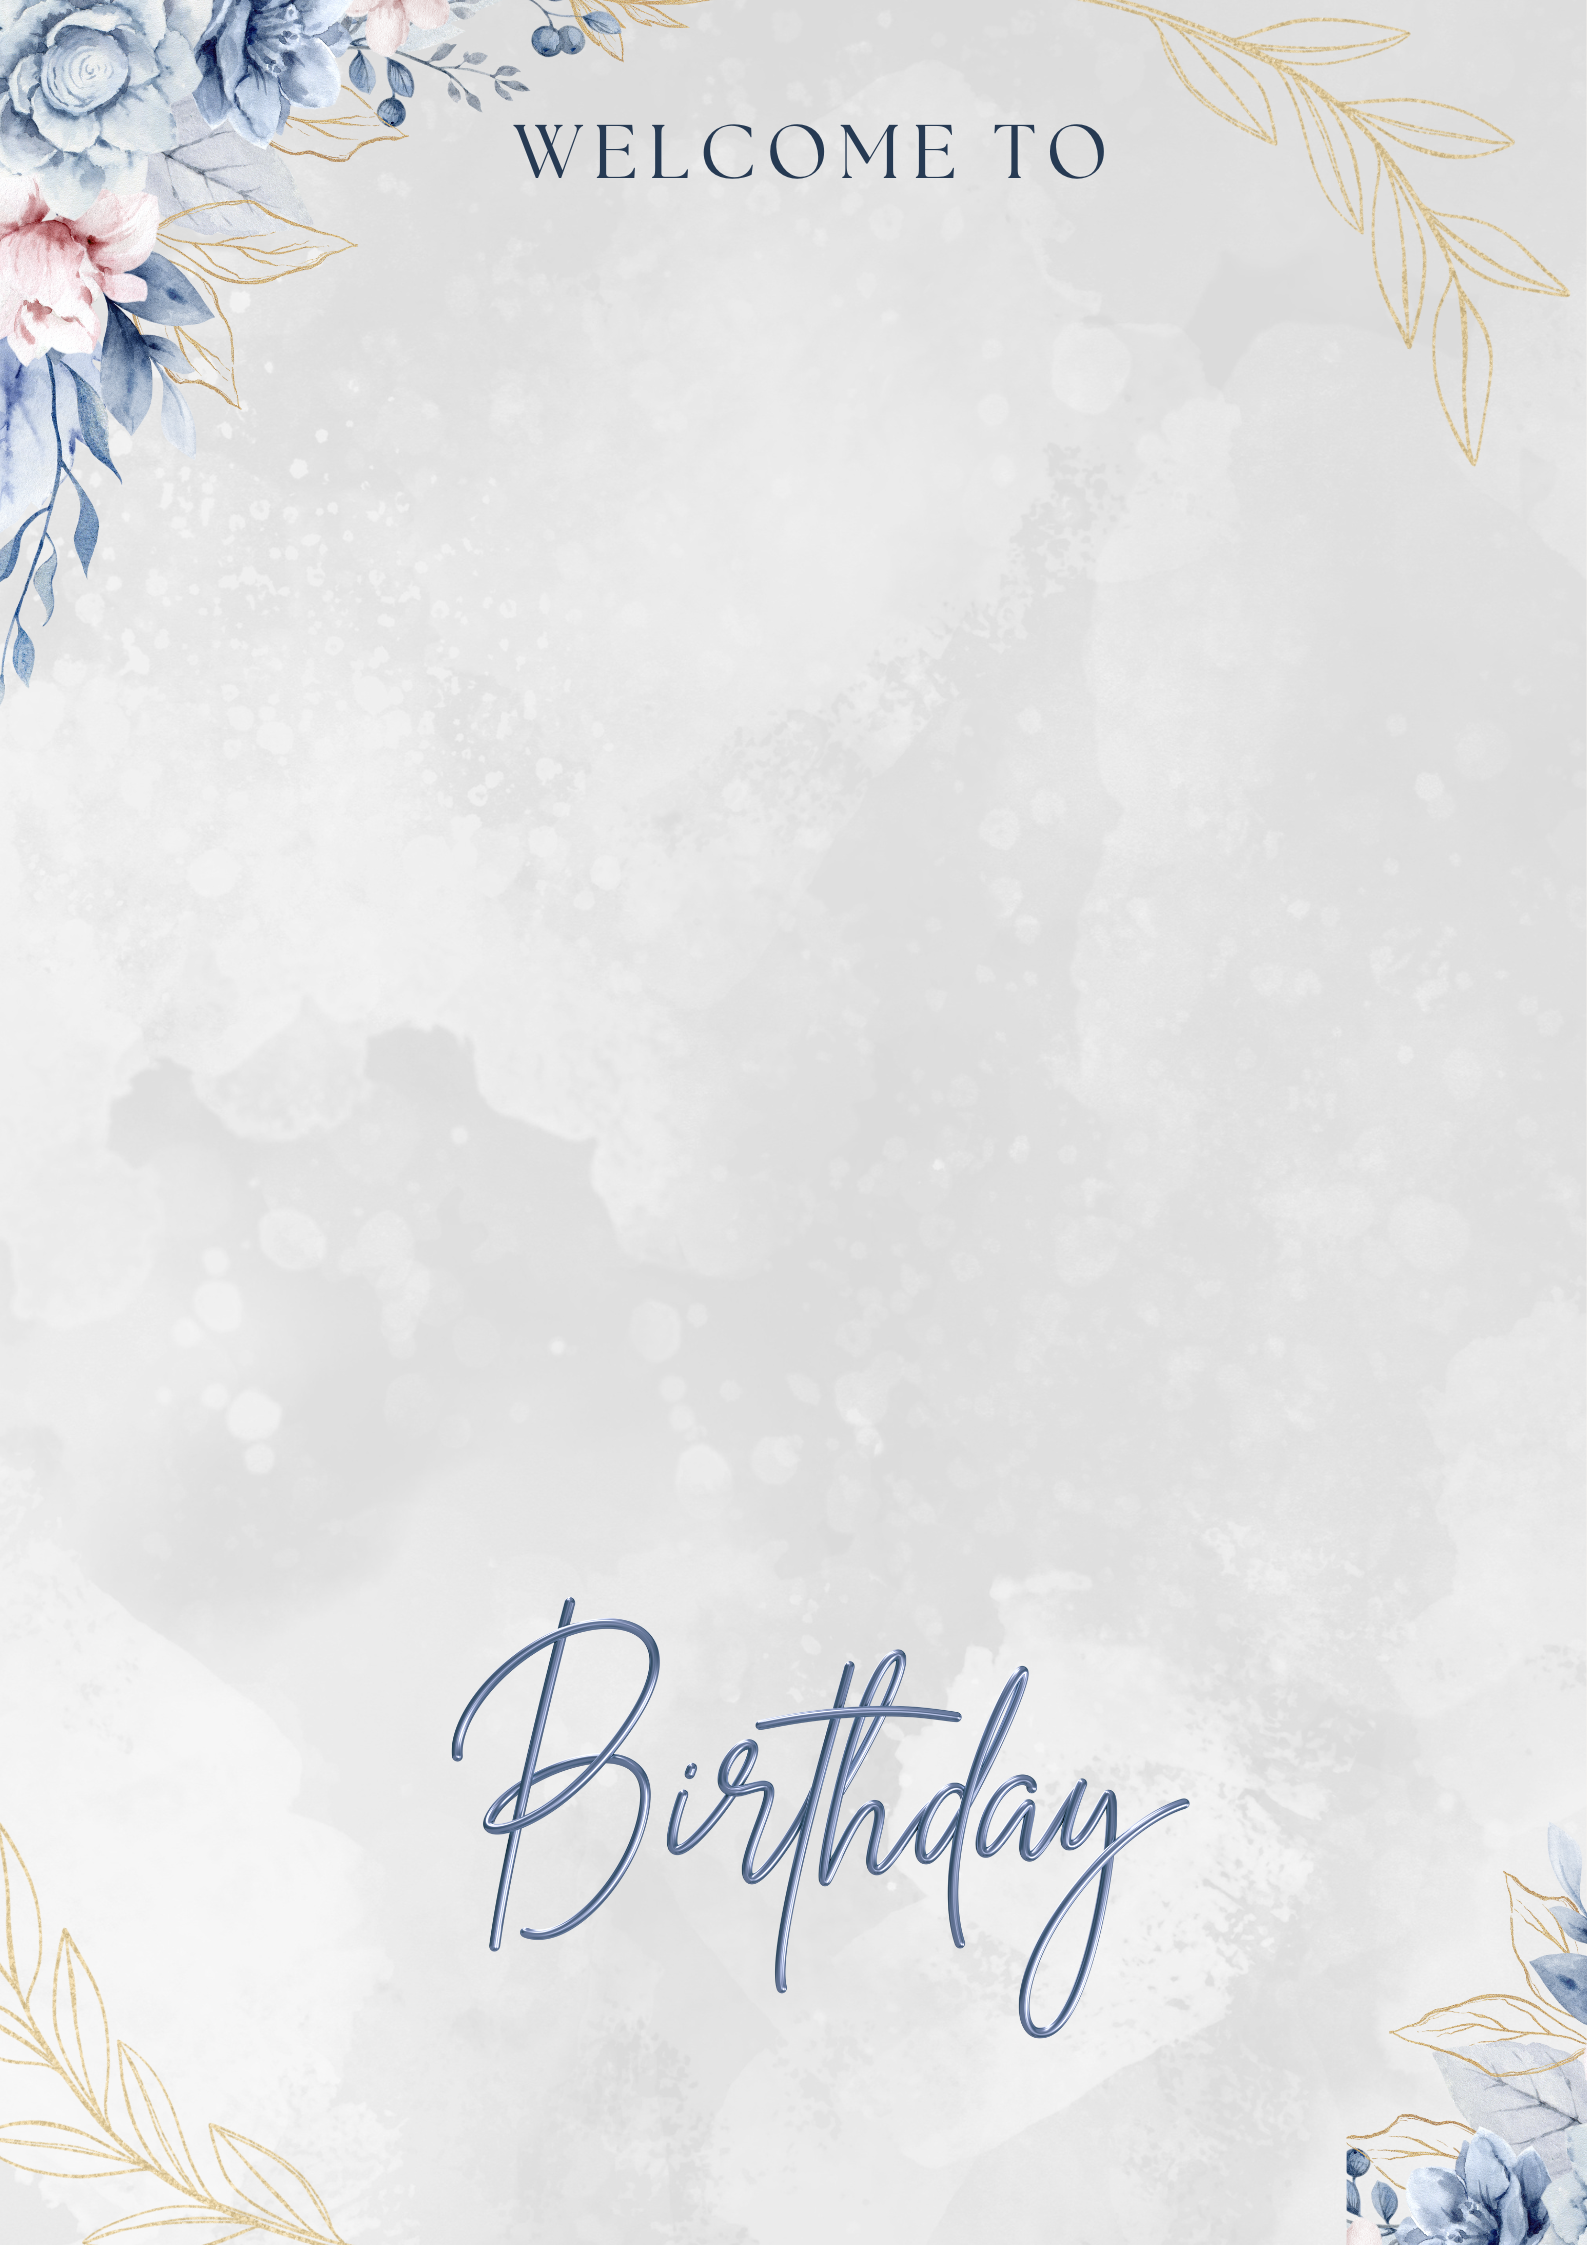
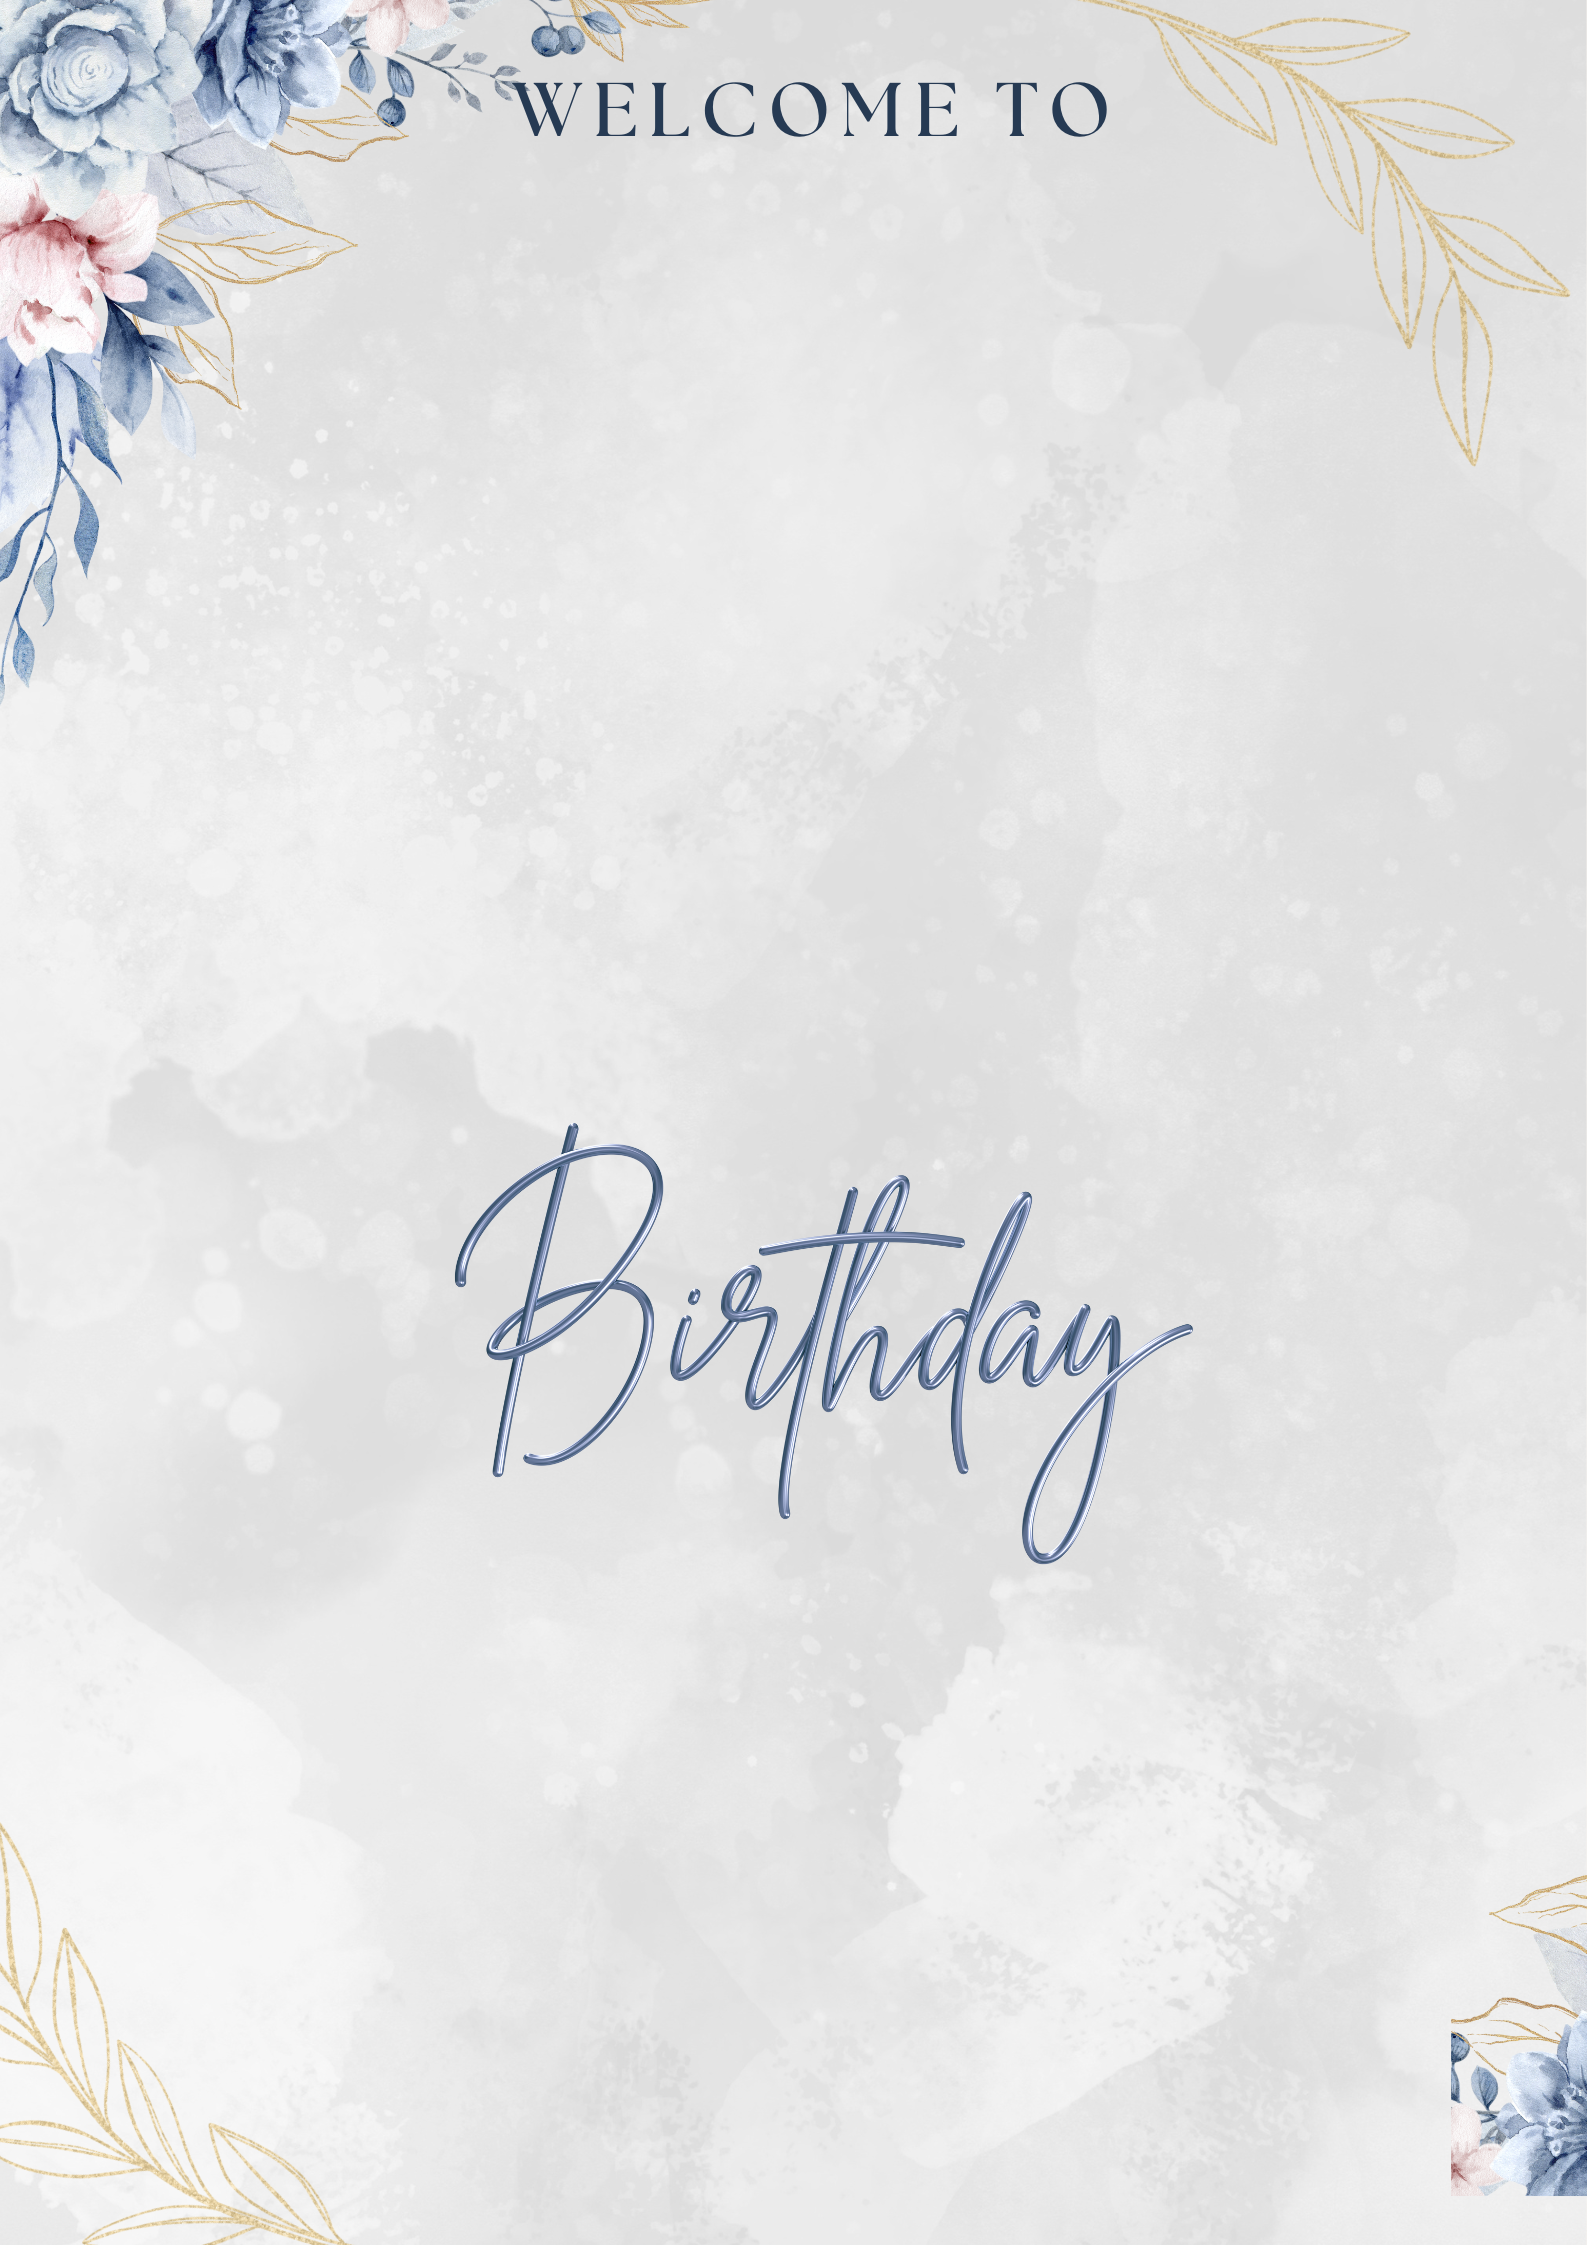
wonderland-code-merage-9-10-2025

diff --git a/horaservices/src/components/OtpLoginPopup.jsx b/horaservices/src/components/OtpLoginPopup.jsx
@@ -188,14 +188,16 @@ const sendWelcomeMessage = async (mobileNumber) => {
   return (
     <div className="popup-overlay">
       <div className="popup-content">
+                     <AiOutlineClose className="close-icons" onClick={hadelClose} size={15} />
+
         {!isUserLoggedIn ? (
           <>
             <div className="popup-header">
-              {isHomePage ? (
+              {/* {isHomePage ? (
                 <AiOutlineClose className="close-icon" onClick={hadelClose} size={15} />
               ) : (
                 ''
-              )}
+              )} */}
               <h2>Login to Hora!</h2> {/* Fixed missing closing quote */}
             </div>
             <div className="otp-login">
@@ -269,7 +271,7 @@ const sendWelcomeMessage = async (mobileNumber) => {
           <div className="success-message">
             <div className='popup-header'>  
               <Image src={loginImage} />
-            <AiOutlineClose className="close-icon" onClick={hadelClose} size={15} />
+            {/* <AiOutlineClose className="close-icon" onClick={hadelClose} size={15} /> */}
               </div>
             <h1>Logged In Successful</h1>
             <p>Welcome Hora! You have been logged out successfully.</p>

diff --git a/horaservices/src/components/login.css b/horaservices/src/components/login.css
@@ -10,12 +10,24 @@
     align-items: center;
     z-index: 111111;
   }
-  .close-icon {
+  /* .close-icon {
     cursor: pointer;
     font-size: 24px;
     color: #7d7d7d;
     position: absolute;
     right: 5px;
+} */
+.close-icons{
+  position: absolute;
+  top: 165px;
+  right: 25px;
+  font-size: 28px;
+  font-weight: bold;
+  color: #7d7d7d;
+  cursor: pointer;
+  user-select: none;
+  z-index: 1000;
+  transition: color 0.3s ease;
 }
 .popup-header {
     display: block;
